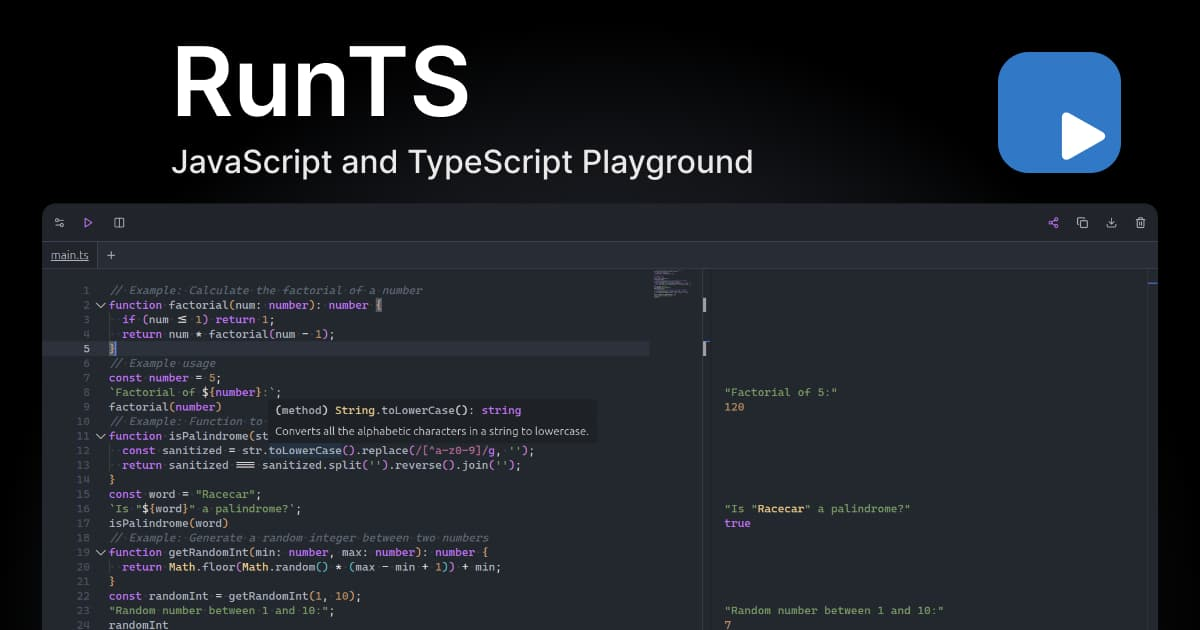
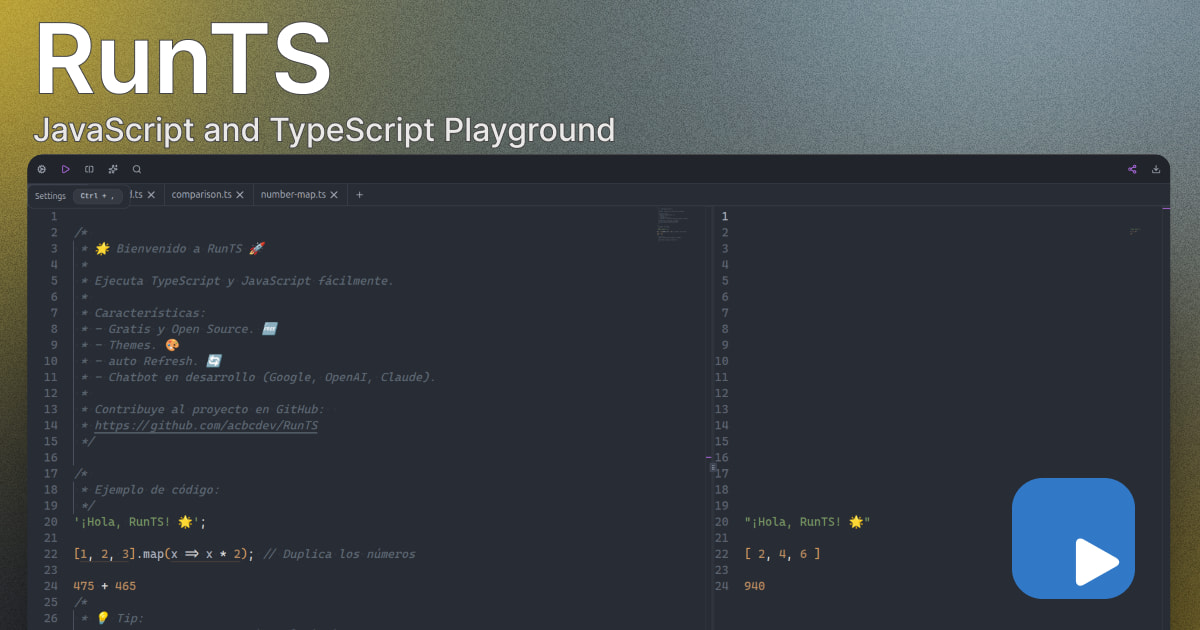
fix: update screenshot in README and add original image for backup

diff --git a/README.md b/README.md
@@ -1,4 +1,4 @@
-![Captura de pantalla en ordenador](/public/runts.webp)
+![Captura de pantalla en ordenador](/public/og.jpg)
 
 <div align='center'>
    
